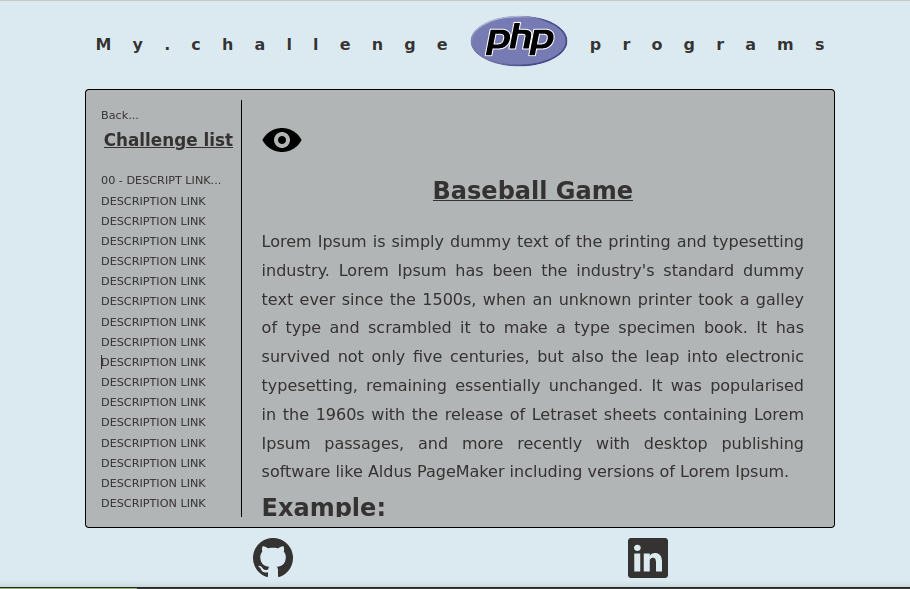
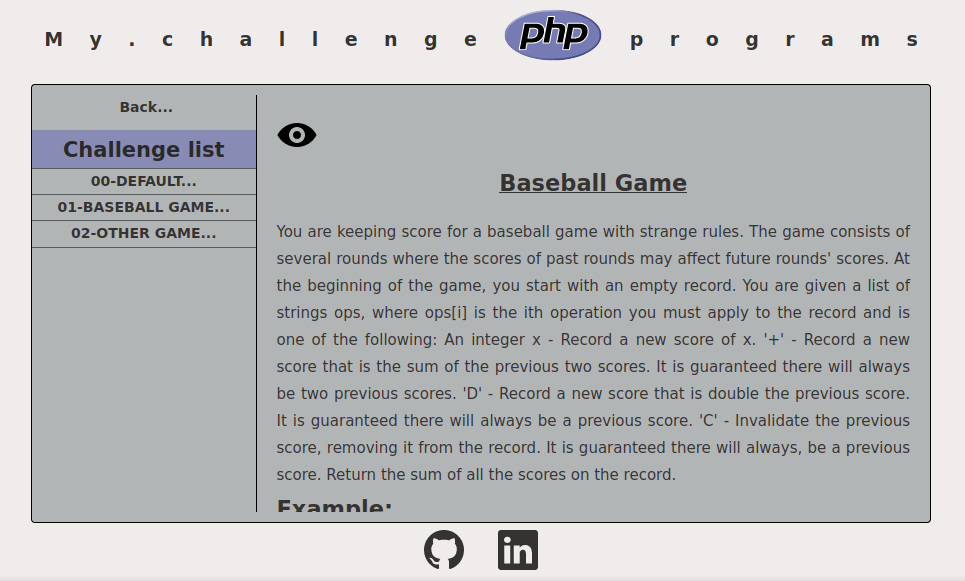
Att preview

Changed region(s): [[0.0, 0.0, 1.0, 1.0], [0.4615, 0.2788, 0.7077, 0.3408], [0.0308, 0.062, 0.0615, 0.0929]]

diff --git a/content-main.php b/content-main.php
@@ -9,9 +9,9 @@
         <aside>
             <a href="?page=index" class="return">Back...</a>
             <h1>Challenge list</h1>
-            <a href="?page=main&challenge=challenge-00">00-DESCRIPT LINK...</a>
-            <a href="?page=main&challenge=challenge-00">00-DESCRIPT LINK...</a>
-            <a href="?page=main&challenge=challenge-00">00-DESCRIPT LINK...</a>
+            <a href="?page=main&challenge=challenge-00">00-DEFAULT...</a>
+            <a href="?page=main&challenge=challenge-00">01-BASEBALL GAME...</a>
+            <a href="?page=main&challenge=challenge-00">02-OTHER GAME...</a>
         </aside>
 
         <article>
@@ -22,14 +22,20 @@
                 Baseball Game
             </h1>
             <p id="description">
-            Lorem Ipsum is simply dummy text of the printing and typesetting industry. 
-            Lorem Ipsum has been the industry's standard dummy text ever since the 1500s, 
-            when an unknown printer took a galley of type and scrambled it to make a type 
-            specimen book. It has survived not only five centuries, but also the leap into 
-            electronic typesetting, remaining essentially unchanged. It was popularised in the 
-            1960s with the release of Letraset sheets containing Lorem Ipsum passages, and more 
-            recently with desktop publishing software like Aldus PageMaker including versions of 
-            Lorem Ipsum. 
+        You are keeping score for a baseball game with strange rules. The game consists of several rounds
+        where the scores of past rounds may affect future rounds' scores.
+        At the beginning of the game, you start with an empty record. You are given a list of strings ops,
+        where ops[i] is the ith operation you must apply to the record and is one of the following:
+        
+        An integer x - Record a new score of x.
+        '+' - Record a new score that is the sum of the previous two scores. It is guaranteed there will
+        always be two previous scores.
+        'D' - Record a new score that is double the previous score. It is guaranteed there will always be a
+         previous score.
+        'C' - Invalidate the previous score, removing it from the record. It is guaranteed there will
+         always, be a previous score.
+        
+        Return the sum of all the scores on the record.
             </p>
 
             <h2>Example:</h2>
